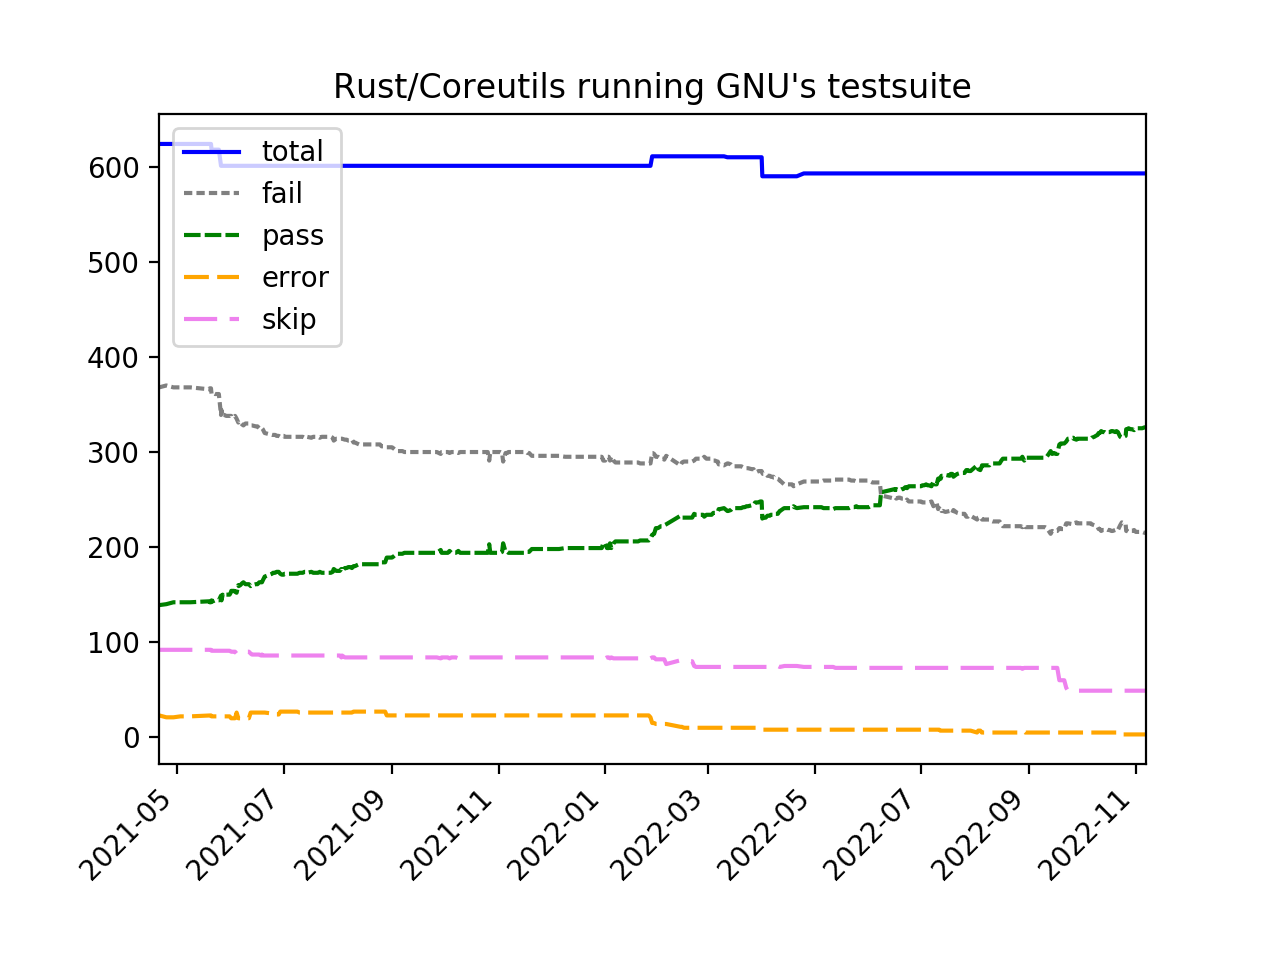
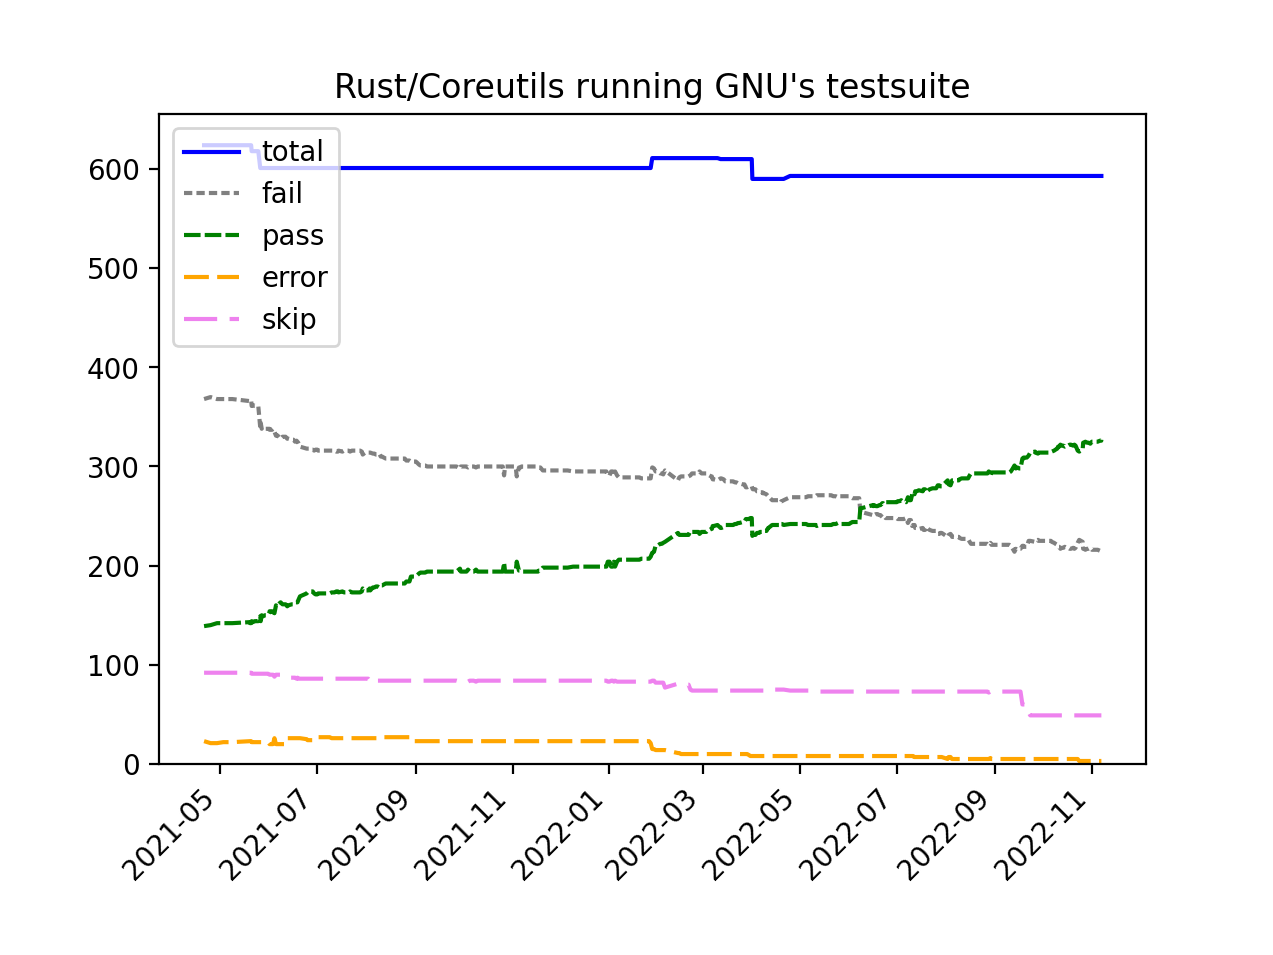
graph: make it starts at 0

diff --git a/size-graph.py b/size-graph.py
@@ -27,4 +27,5 @@ df.plot(y="size", color="gray", ax=ax, dashes=(2, 1), label="Size: multiple bina
 df.plot(y="multisize", color="green", ax=ax, dashes=(4, 1), label="Size: multicall binary (byte)")
 plt.title("Size evolution of Rust/Coreutils")
 plt.xticks(rotation=45)
+plt.ylim(ymin=0)
 plt.savefig("size-results.png", dpi=199)

diff --git a/graph.py b/graph.py
@@ -34,4 +34,5 @@ df.plot(y="error", color="orange", ax=ax, dashes=(6, 2))
 df.plot(y="skip", color="violet", ax=ax, dashes=(8, 3))
 plt.title("Rust/Coreutils running GNU's testsuite")
 plt.xticks(rotation=45)
+plt.ylim(ymin=0)
 plt.savefig("gnu-results.png", dpi=199)
